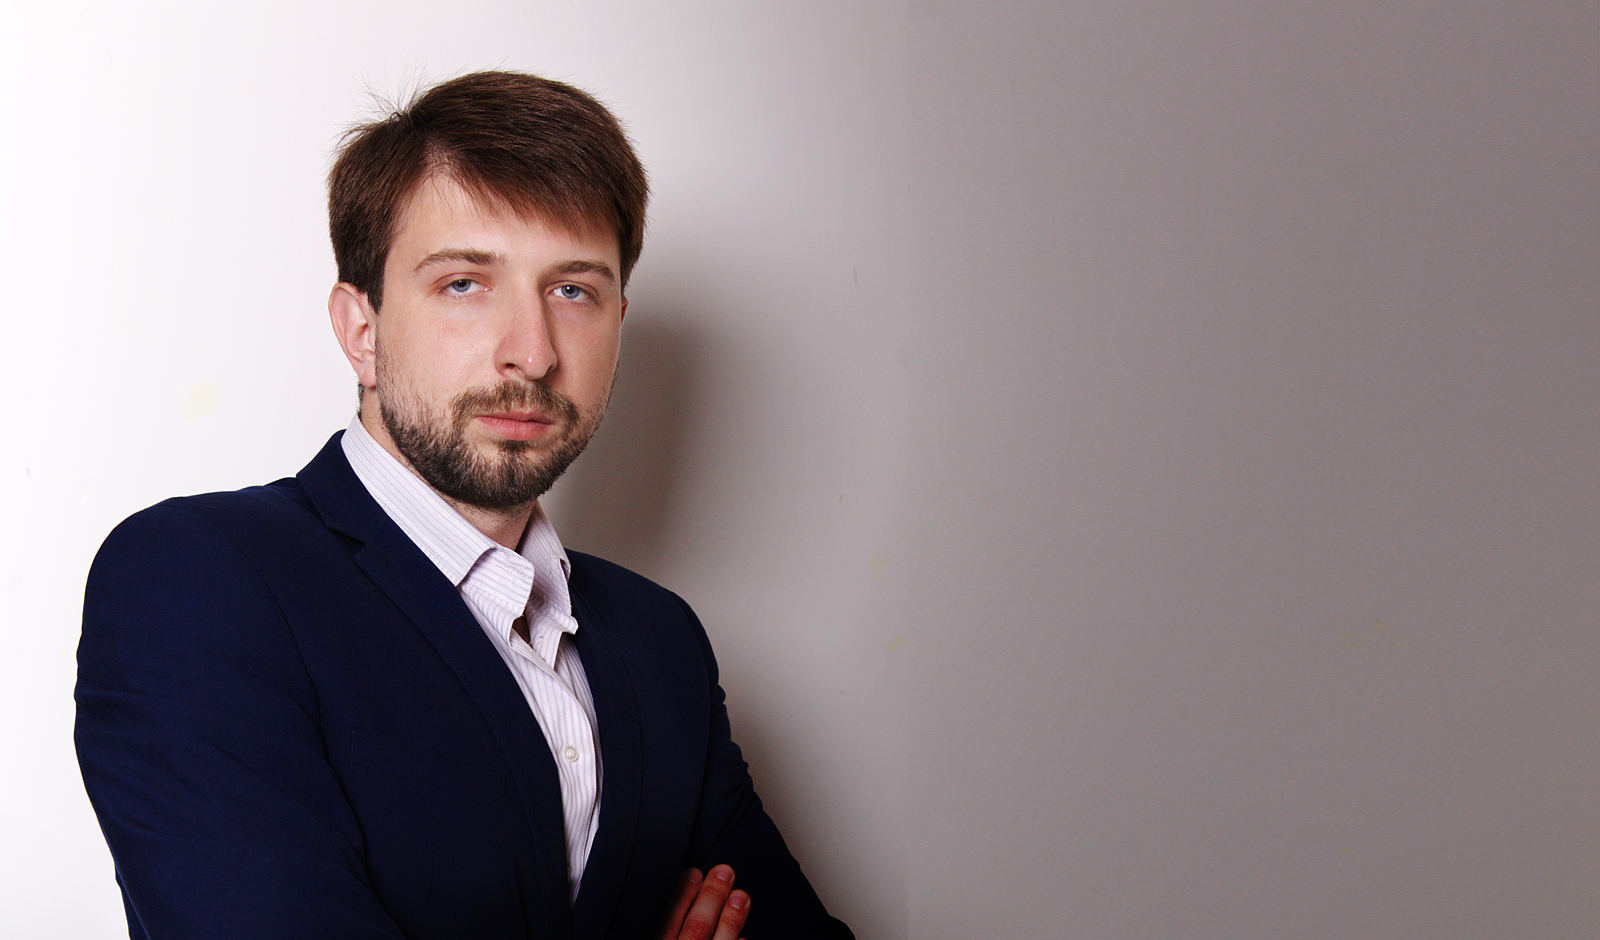
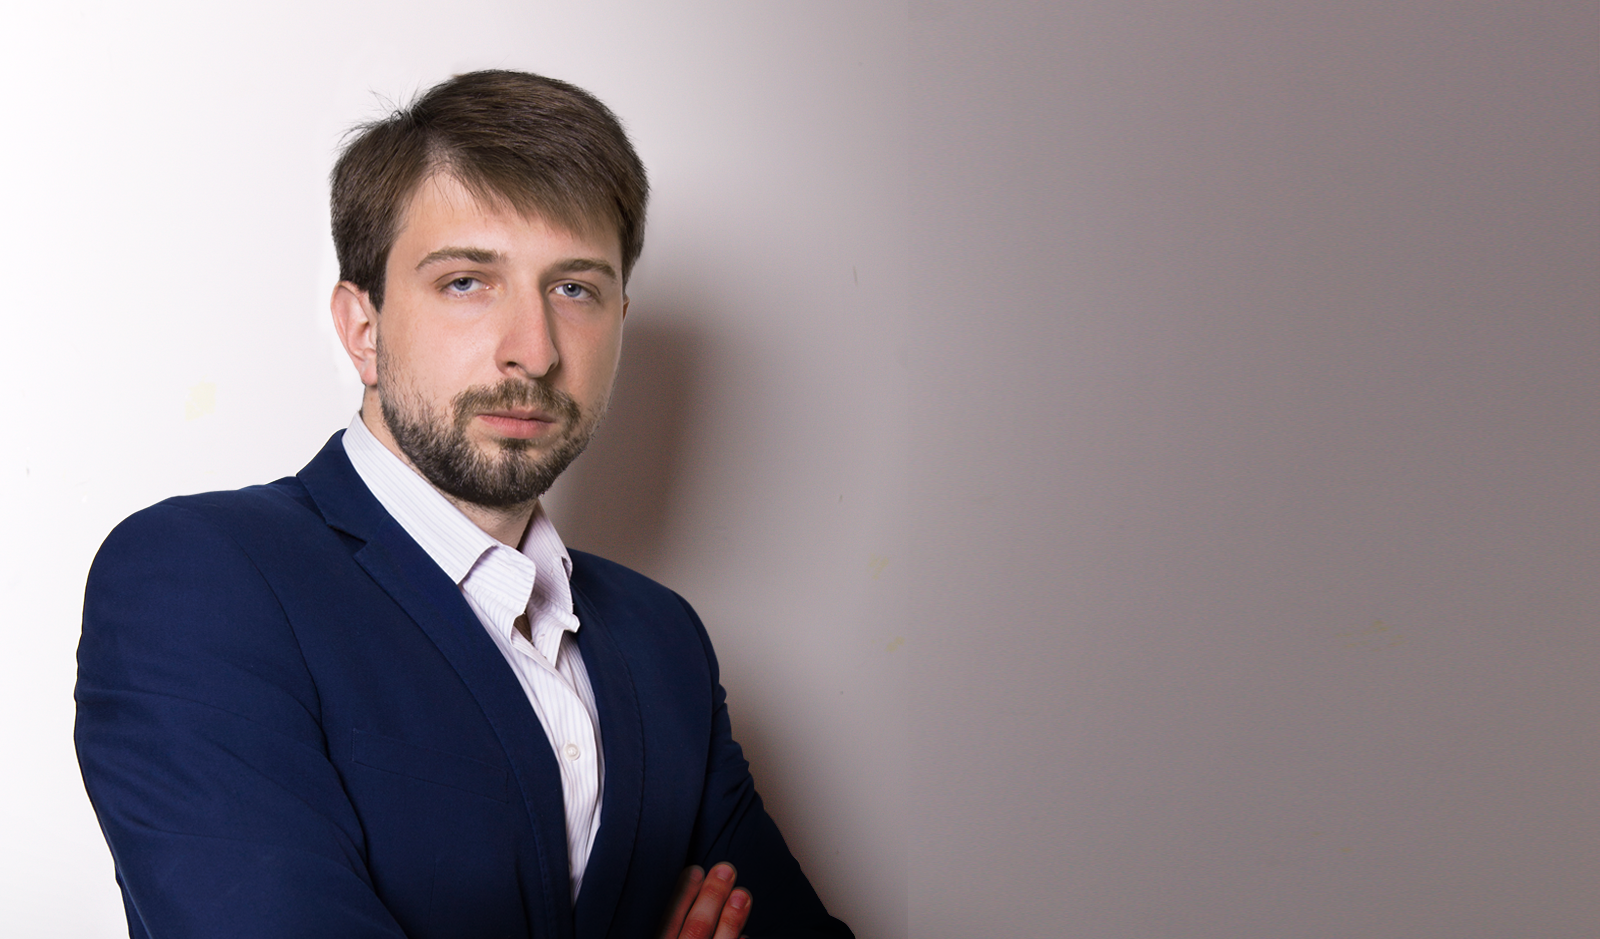
Первый блок и кнопка "обо мне"

Changed region(s): [[0.0312, 0.0618, 0.4375, 1.0], [0.4375, 0.9265, 0.4688, 0.9574], [0.4062, 0.6177, 0.4375, 0.6486]]

diff --git a/sass/style.css b/sass/style.css
@@ -274,7 +274,7 @@ span.wpcf7-not-valid-tip {
   height: 750px;
   background-image: url("../img/entry-1.png");
   background-repeat: no-repeat;
-  background-position: 50% 100%;
+  background-position: 50% 0%;
   -webkit-background-size: 100%;
   -o-background-size: 100%;
   background-size: 100%;
@@ -333,24 +333,24 @@ span.wpcf7-not-valid-tip {
       display: block;
       float: left;
       color: #fff;
-      font-family: "Myriad Pro";
       font-size: 14px;
       text-align: center;
       text-transform: uppercase;
       width: 124px;
       height: 36px;
-      -webkit-border-radius: 4px;
-      -moz-border-radius: 4px;
-      -ms-border-radius: 4px;
-      border-radius: 4px;
       -o-background-clip: padding-box;
       background-clip: padding-box;
-      background-color: #35ade9;
+      background-color: #37bbdd;
       line-height: 38px;
       text-decoration: none;
-      margin-top: 25px; }
+      margin-top: 25px;
+      -webkit-transition: all 0.3s linear;
+      -moz-transition: all 0.3s linear;
+      -ms-transition: all 0.3s linear;
+      -o-transition: all 0.3s linear;
+      transition: all 0.3s linear; }
       .aboutme__text a:hover {
-        background-color: #1795d4; }
+        background-color: #21a0c0; }
     .aboutme__text--line {
       display: block;
       float: left;

diff --git a/sass/content/_index.scss b/sass/content/_index.scss
@@ -5,7 +5,7 @@
 	height: 750px;
 	background-image: url("../img/entry-1.png");
 	background-repeat: no-repeat;
-	background-position: 50% 100%;
+	background-position: 50% 0%;
 	-webkit-background-size: 100%;
 	     -o-background-size: 100%;
 	        background-size: 100%;
@@ -68,24 +68,23 @@
 			font-family: $book;
 			font-weight: bold;
 		}
-		a {
-			display: block;
+		a {			
+			display: block;			
 			float: left;
 			color: #fff;
-			font-family: "Myriad Pro";
 			font-size: 14px;
 			text-align: center;
 			text-transform: uppercase;
 			width: 124px;
 			height: 36px;
-			@include border-radius(4px);
 			@include background-clip(padding-box);
-			background-color: #35ade9;
+			background-color: #37bbdd;
 			line-height: 38px;
 			text-decoration: none;
 			margin-top: 25px;
+			@include transition(0.3s);
 			&:hover {
-				background-color: darken(#35ade9, 10%);
+				background-color: darken(#37bbdd, 10%);
 			}
 		}
 		&--line {
